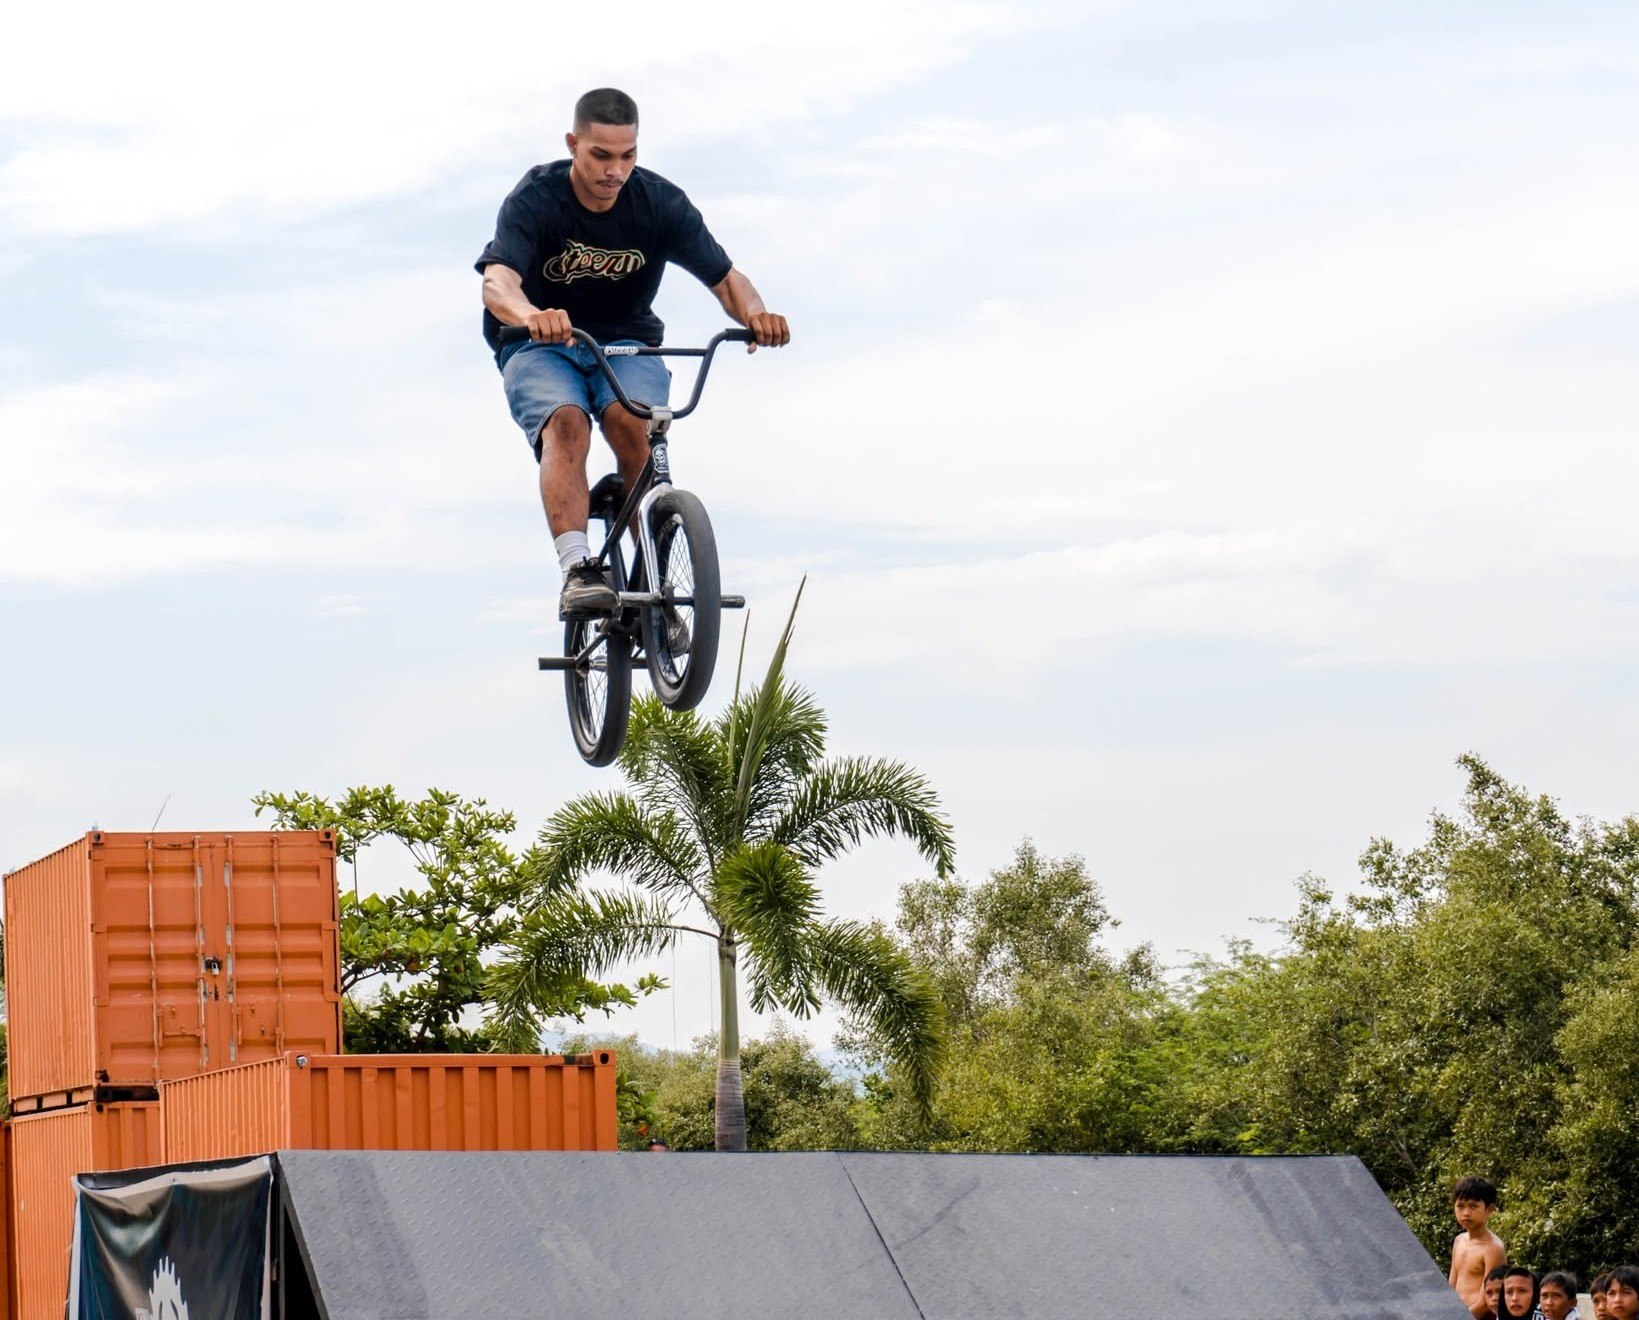
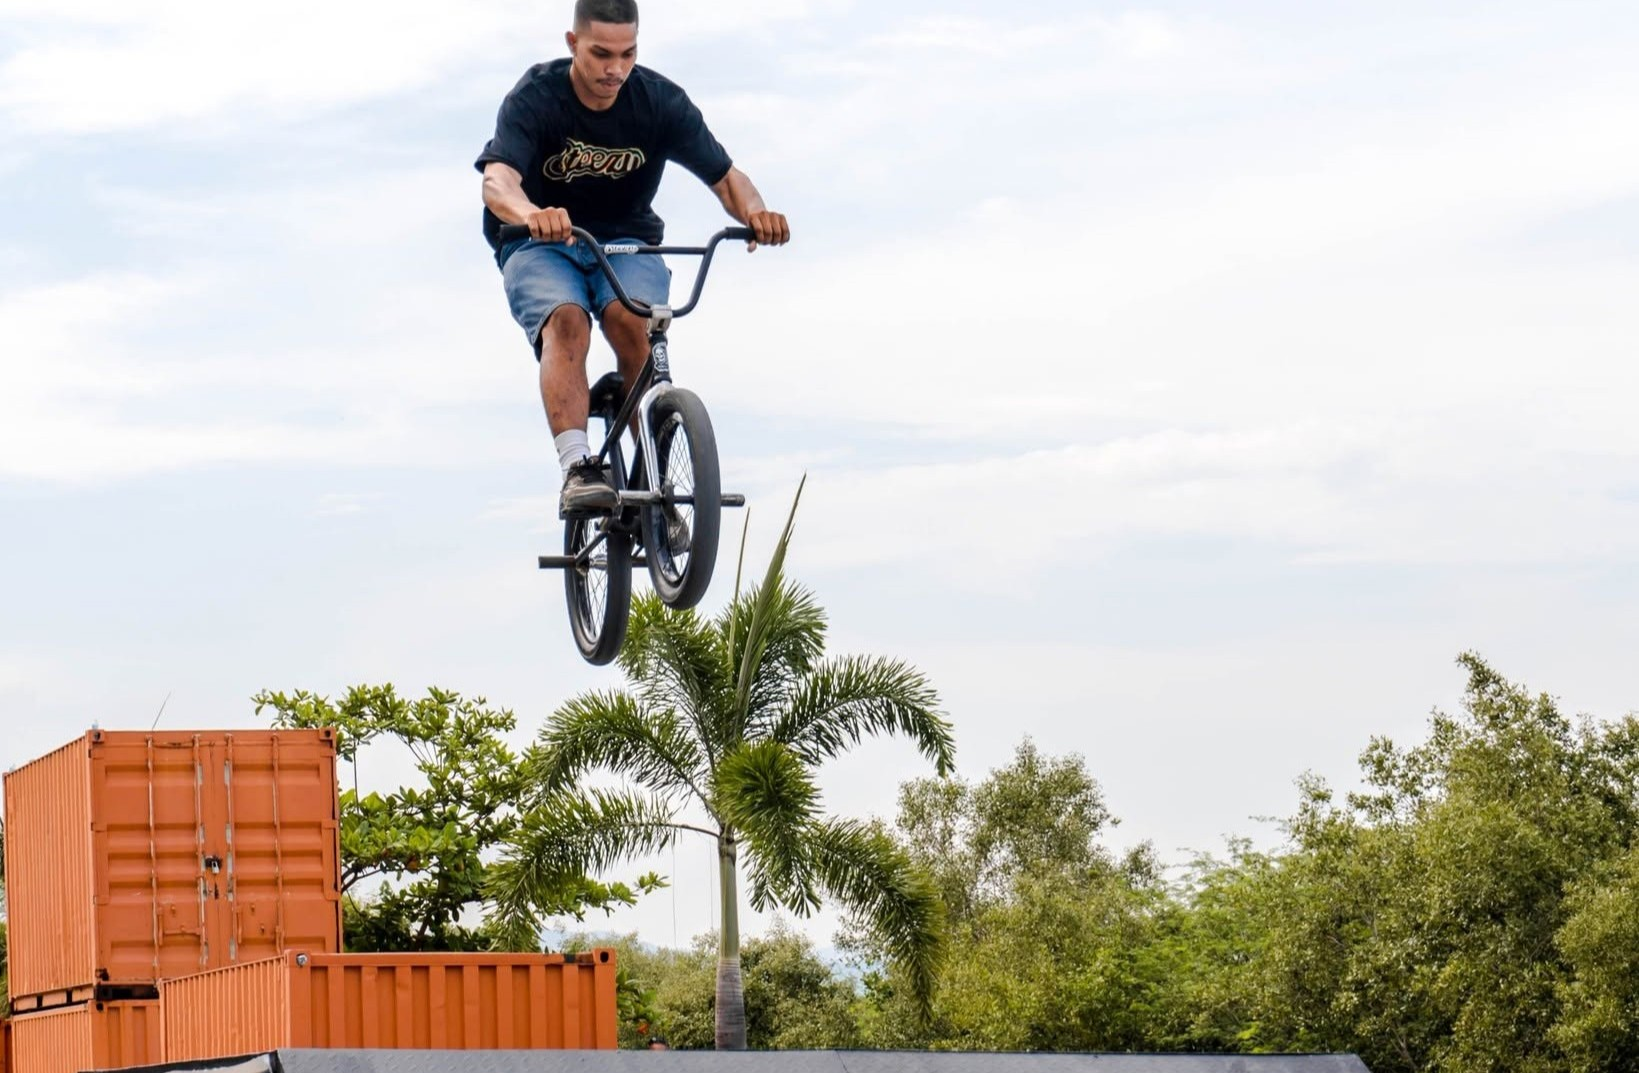
refactor: resize and arrange the text

diff --git a/src/components/Home.jsx b/src/components/Home.jsx
@@ -2,11 +2,13 @@ const HEROSEC = '/src/assets/hero.jpg'
 
 export default function Home() {
   return (
-    <>
-      <img src={HEROSEC} alt="Hero section" className="w-screen"></img>
-      <h1>Home</h1>
-      <p>Welcome to our clothing store!</p>
-      <p>Choose products below.</p>
-    </>
+    <div className="heroSection flex relative">
+      <img src={HEROSEC} alt="Hero section" className="w-screen z-0"></img>
+      <div className="absolute top-50 right-100">
+        <p className="text-9xl">Home</p>
+        <p className="text-4xl">Welcome to our clothing store!</p>
+        <p className="text-2xl">Choose products below.</p>
+      </div>
+    </div>
   );
 }
